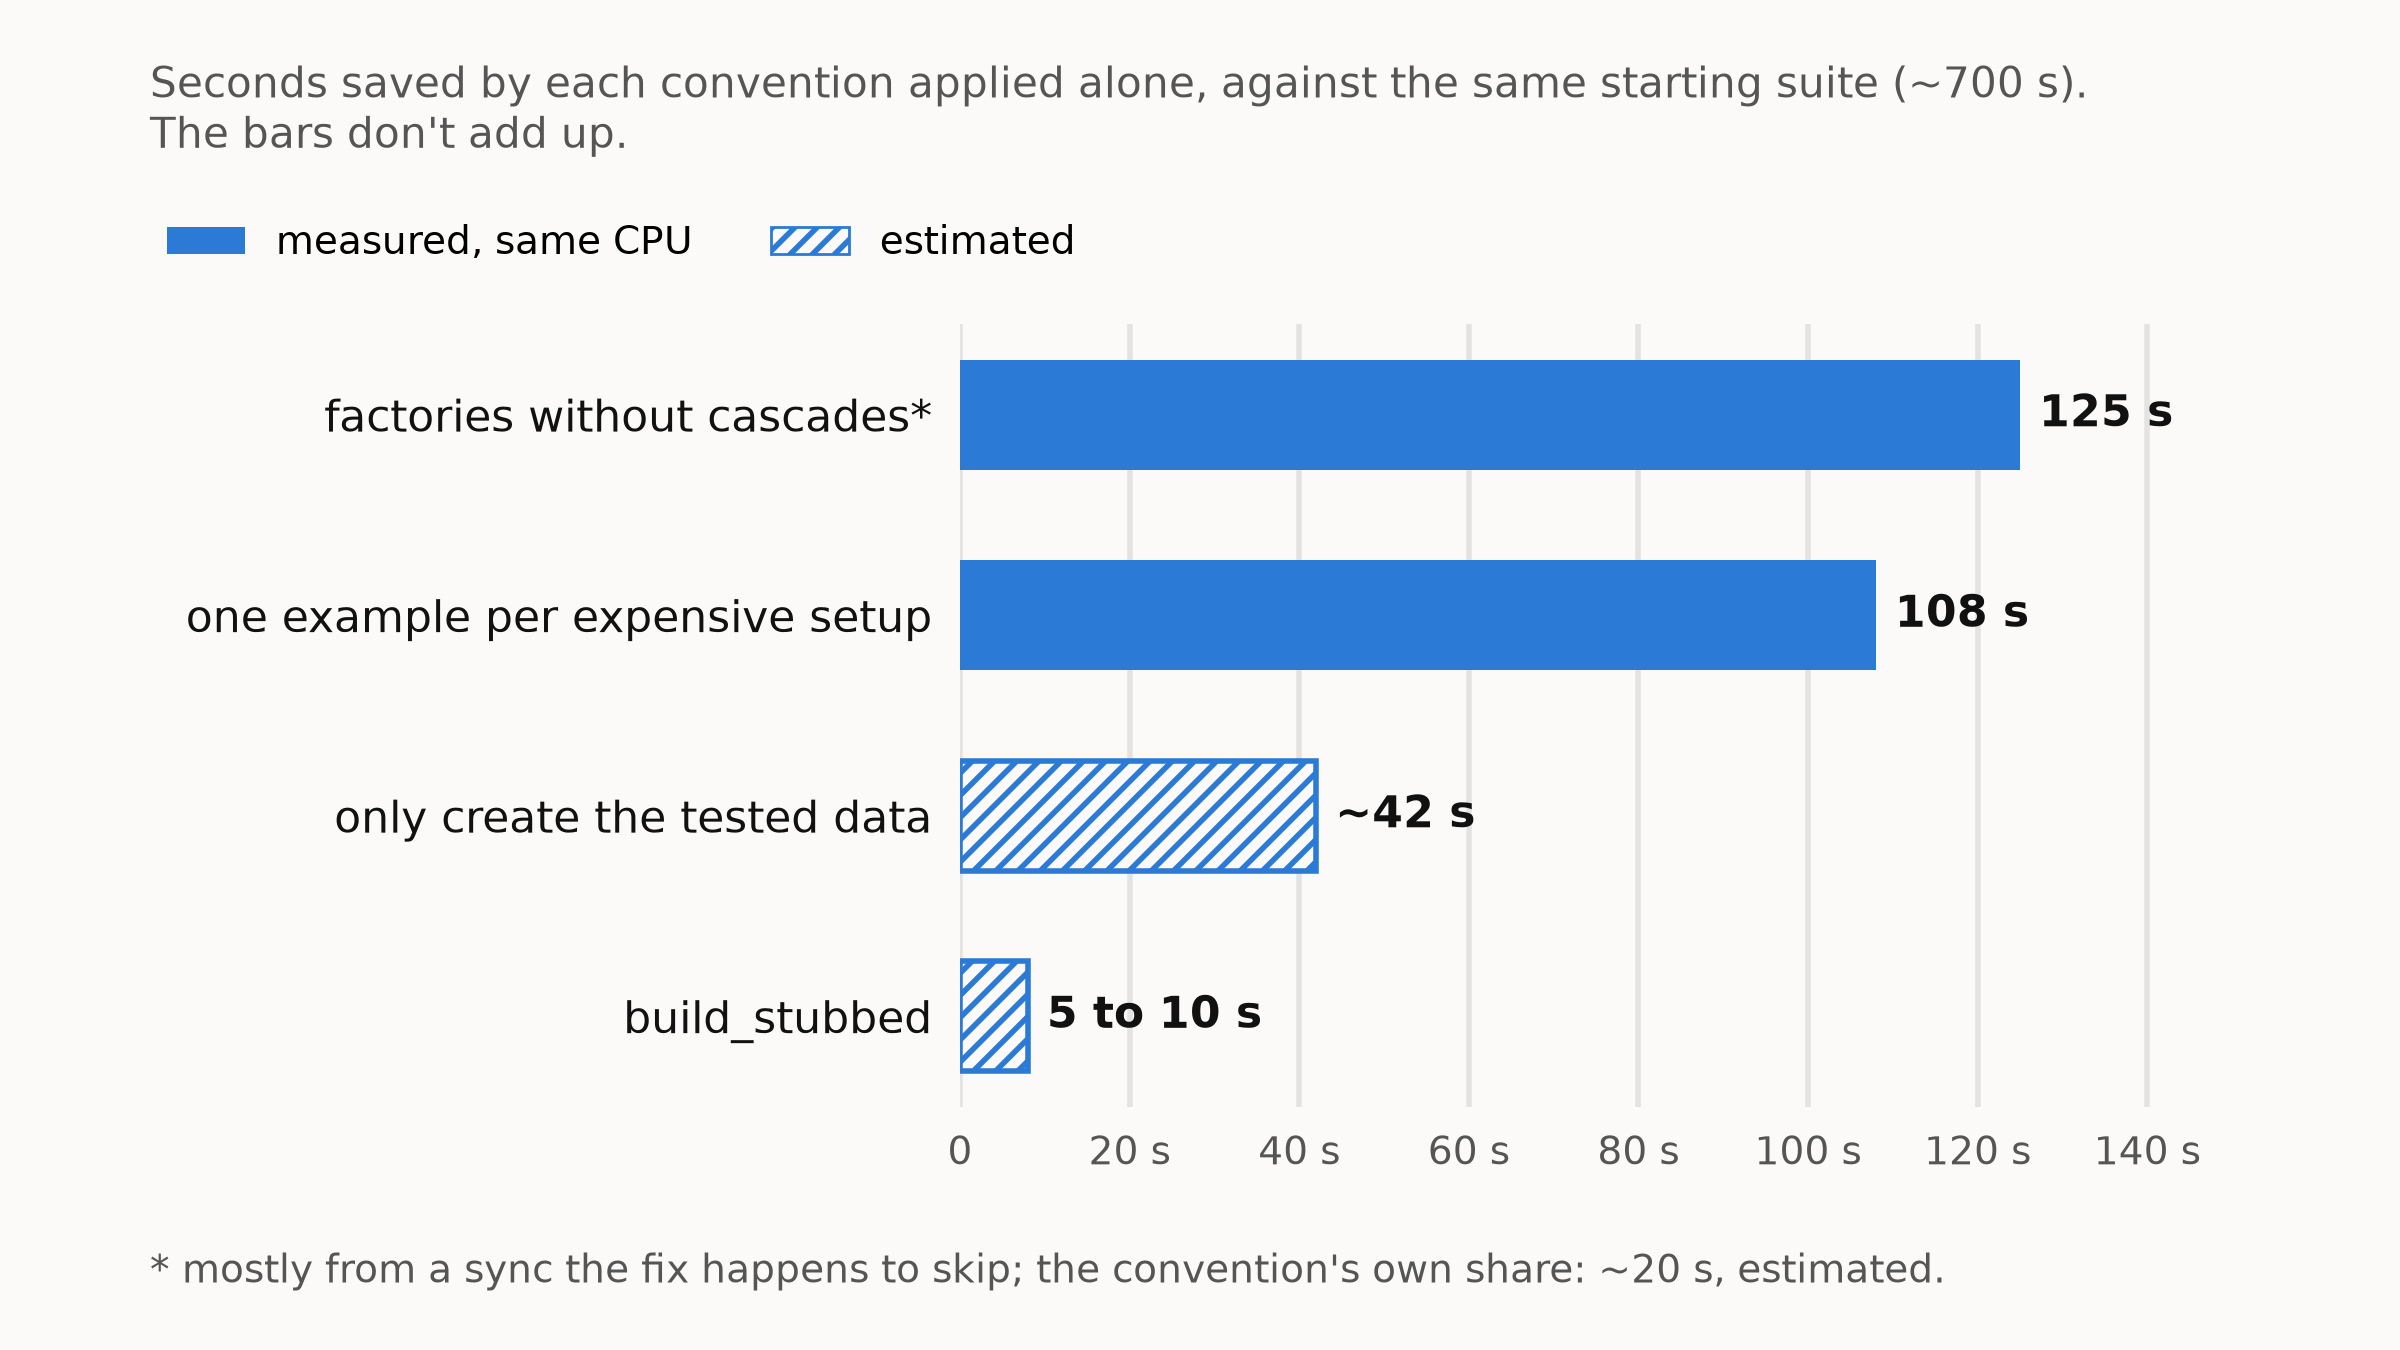
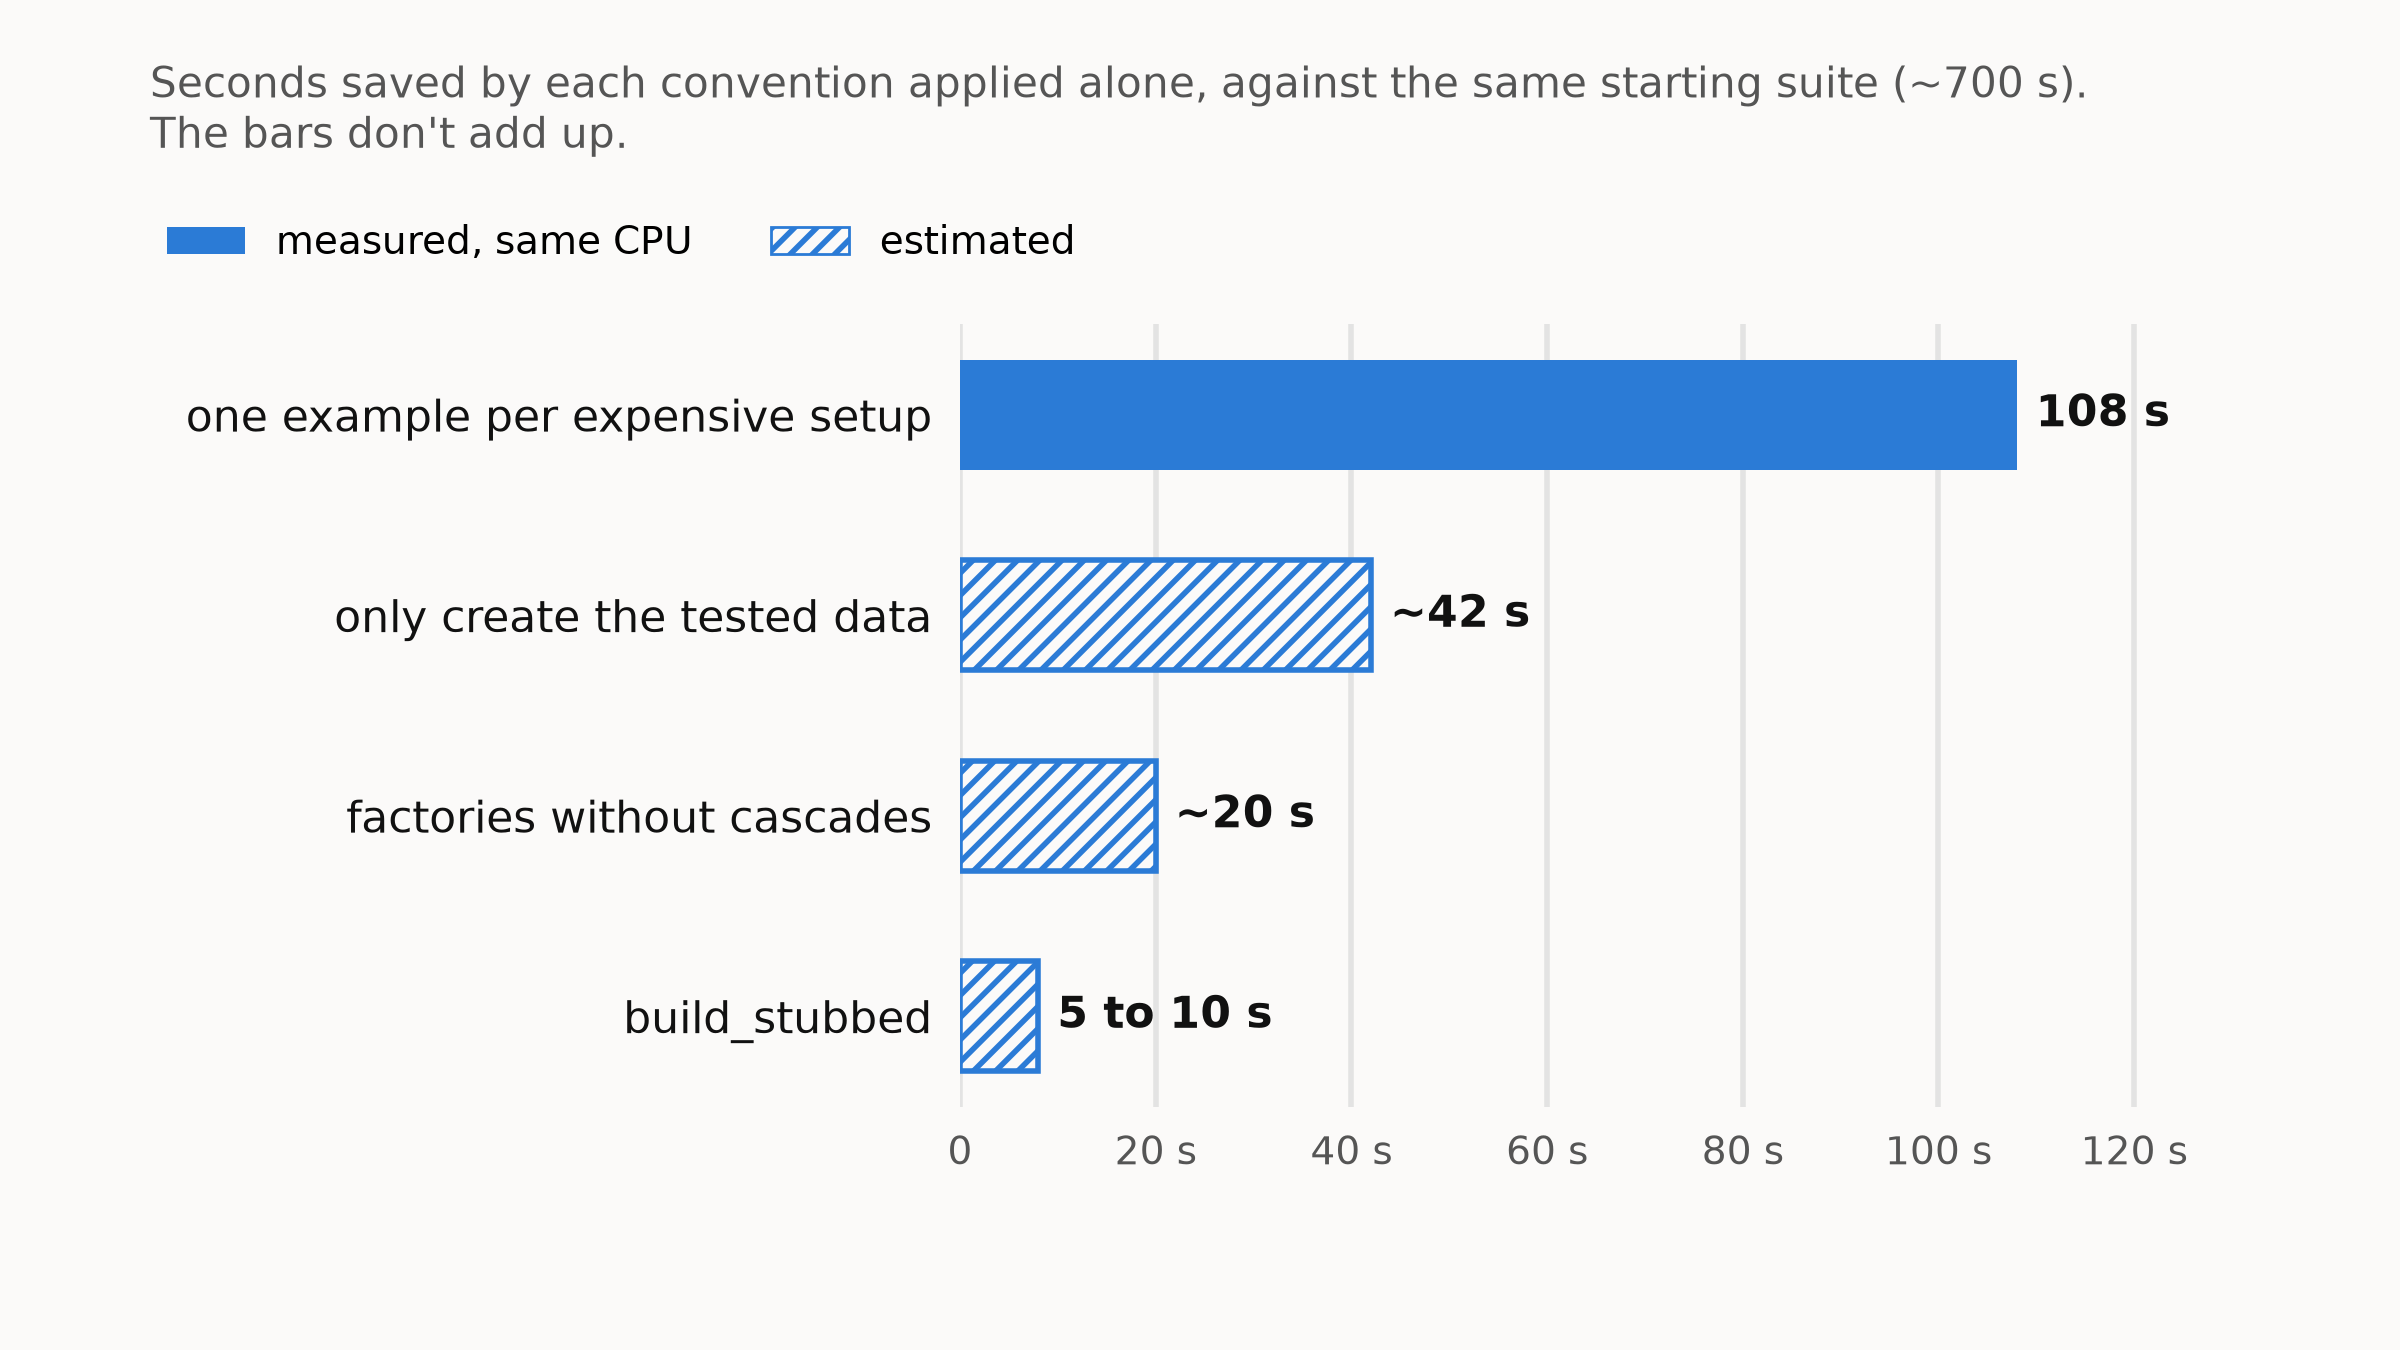
blog: Alléger les specs RSpec, les cascades à leur part propre estimée
Plus de 125 s ni de 48 -> 9 ms : ces deux chiffres venaient surtout
de la synchronisation des rôles, retirée de l'article.

diff --git a/content/blog/alleger-les-specs-rspec/fr.md b/content/blog/alleger-les-specs-rspec/fr.md
@@ -11,7 +11,7 @@ Chez un de nos clients, [paralléliser RSpec](/blog/paralleliser-rspec-sur-githu
 
 Et ça se cumule : une factory corrigée accélère tous les specs qui l'utilisent, ceux d'aujourd'hui comme ceux qu'on écrira demain, et un spec écrit avec les bonnes conventions est rapide dès le départ.
 
-On a appliqué quatre conventions de specs. Chacune a été appliquée seule à la même suite de départ, puis les deux versions ont tourné l'une après l'autre sur une même machine. Les gains ne s'additionnent donc pas, et deux d'entre eux, trop petits pour sortir du bruit de mesure, sont des estimations.
+On a appliqué quatre conventions de specs. Chacune a été appliquée seule à la même suite de départ, puis les deux versions ont tourné l'une après l'autre sur une même machine. Les gains ne s'additionnent donc pas, et trois d'entre eux sont des estimations.
 
 ![Secondes gagnées sur toute la suite par chaque convention, appliquée seule à la même suite de départ](gains-fr.png "Une barre par convention, chacune contre la même suite de départ : les barres ne s'additionnent pas.")
 
@@ -104,11 +104,7 @@ factory :account do
 end
 ```
 
-Créer un questionnaire passe de 48 à 9 ms, et la suite en crée plus de 4 000 :
-
-![Temps moyen pour créer un questionnaire et un user, avec et sans cascades](cascades-fr.png "Mesuré par FactoryProf sur toute la suite, même CPU.")
-
-Sur toute la suite, ça fait 38 134 enregistrements créés au lieu de 44 135, et la suite passe de 699 à 574 s (−18 %). La plupart de ce gain vient d'une synchronisation coûteuse que la factory relançait à chaque exemple en créant le compte de l'owner, et que la correction évite au passage : la part propre de la convention est estimée à une vingtaine de secondes.
+Sur toute la suite, ça fait 38 134 enregistrements créés au lieu de 44 135. Le gain propre de cette convention est estimé à une vingtaine de secondes : chaque enregistrement évité ne coûte que quelques millisecondes, mais il y en a 6 000 de moins à chaque passage de la suite.
 
 Le même défaut restait sur les users staff : la factory donnait un compte à chaque user, même aux admins, qui n'en ont pas en production (leur accès vient de leur type). Ce compte coûtait plus que tout ce que `build_stubbed` faisait gagner :
 

diff --git a/content/blog/alleger-les-specs-rspec/en.md b/content/blog/alleger-les-specs-rspec/en.md
@@ -11,7 +11,7 @@ At one of our clients, [parallelizing RSpec](/en/blog/parallelizing-rspec-on-git
 
 And it compounds: a fixed factory speeds up every spec that uses it, today's and the ones we'll write tomorrow, and a spec written with the right conventions is fast from the start.
 
-We applied four spec conventions. Each one was applied alone to the same starting suite, then both versions ran one after the other on the same machine. So the gains don't add up, and two of them, too small to stand out from measurement noise, are estimates.
+We applied four spec conventions. Each one was applied alone to the same starting suite, then both versions ran one after the other on the same machine. So the gains don't add up, and three of them are estimates.
 
 ![Seconds saved on the whole suite by each convention, applied alone to the same starting suite](gains-en.png "One bar per convention, each against the same starting suite: the bars don't add up.")
 
@@ -104,11 +104,7 @@ factory :account do
 end
 ```
 
-Creating a survey goes from 48 to 9 ms, and the suite creates more than 4,000 of them:
-
-![Average time to create a survey and a user, with and without cascades](cascades-en.png "Measured by FactoryProf over the whole suite, same CPU.")
-
-Over the whole suite, that's 38,134 records created instead of 44,135, and the suite goes from 699 to 574 s (−18%). Most of that gain comes from an expensive sync the factory reran in every example when it created the owner's account, which the fix happens to skip: the convention's own share is estimated at about twenty seconds.
+Over the whole suite, that's 38,134 records created instead of 44,135. The convention's own gain is estimated at about twenty seconds: each record avoided only costs a few milliseconds, but there are 6,000 fewer of them every time the suite runs.
 
 The same default remained on staff users: the factory gave every user an account, even admins, who have none in production (their access comes from their type). That account cost more than everything `build_stubbed` saved:
 
